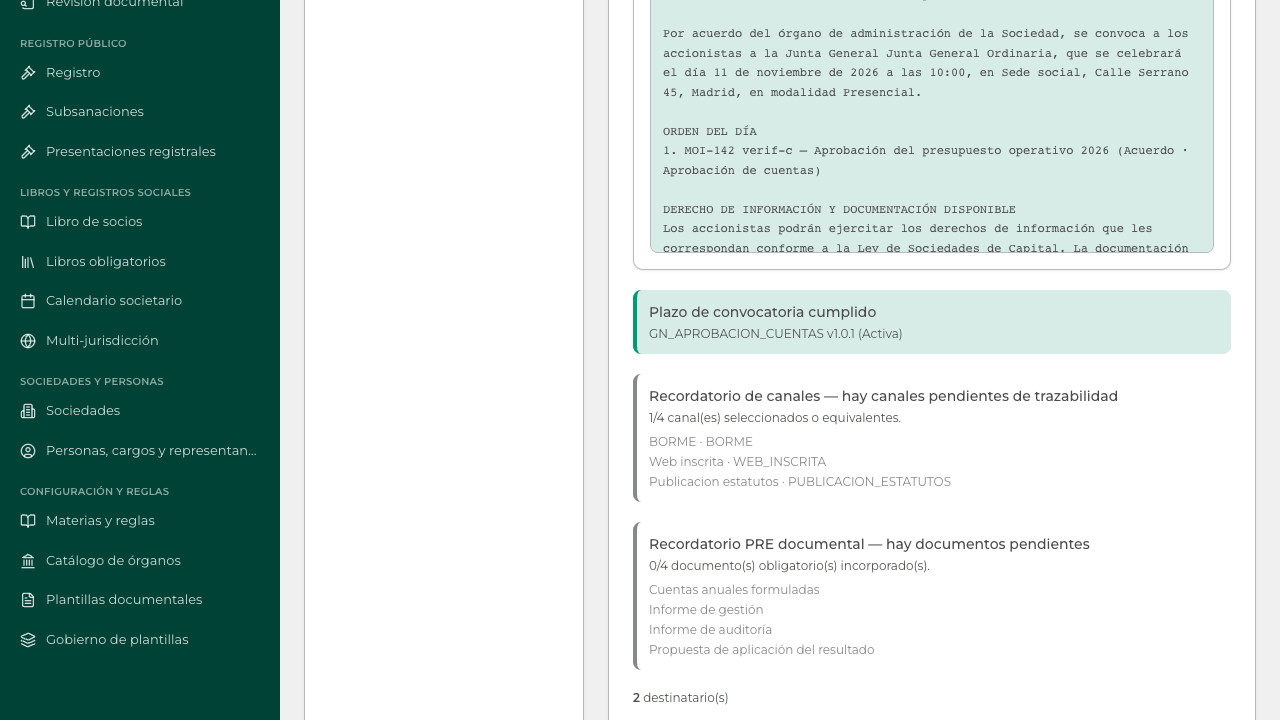
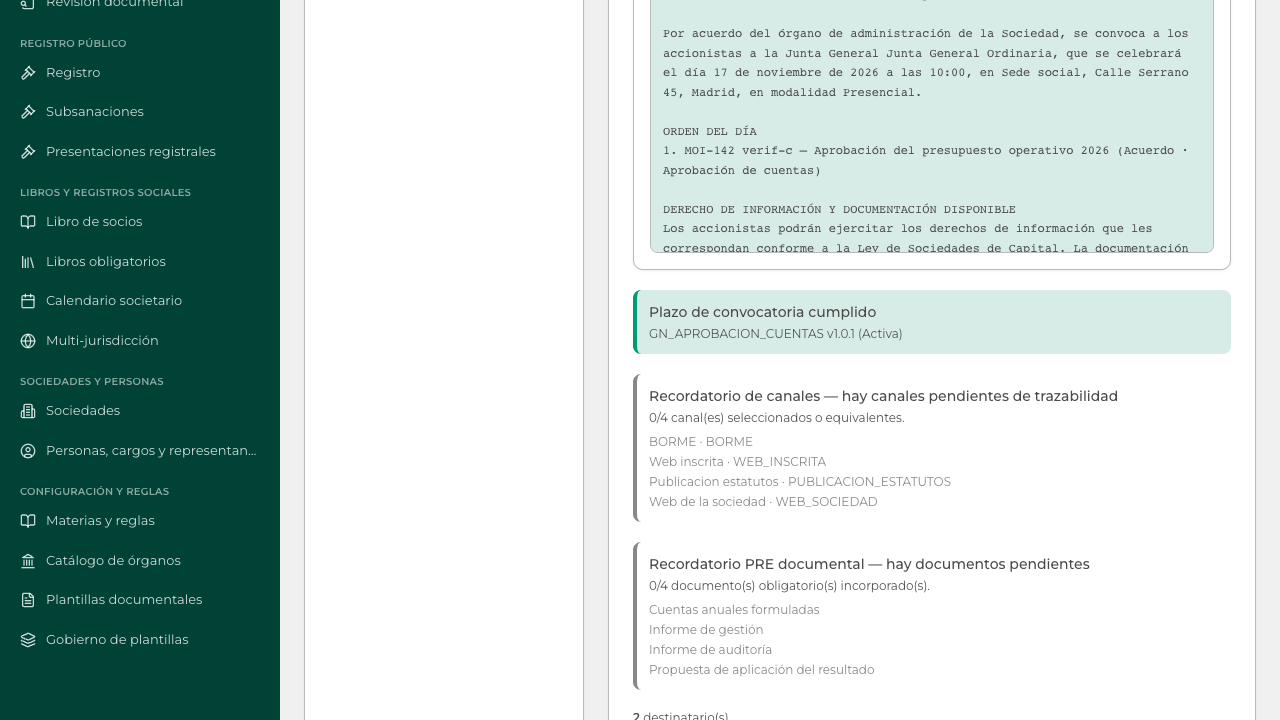
fix(secretaria): permitir emitir convocatoria de Junta, no solo Consejo (MOI-142)
El servidor ya tenía fn_emit_convocatoria_junta (migración
20260926114200, aplicada en Cloud), pero el cliente solo llamaba a
fn_emit_convocatoria (Consejo) y bloqueaba la emisión con un gate
`organoTipo !== "CONSEJO"`. useCreateConvocatoria ahora bifurca por
body_type (JUNTA -> RPC hermana; cualquier otro valor sigue en la RPC
de Consejo, sin cambio de comportamiento) y el stepper deriva el
convocante de una Junta del CDA/administrador único de la entidad
(art. 166 LSC), no del body_id de la propia Junta.

De paso, verificando el documento final post-emisión (convocation-
artifact-register), se encontró que el Edge Function exigía
literalmente recipientSelection.source === 'condiciones_persona' y
rechazaba con 409 el manifiesto de una Junta, cuyo trigger de servidor
ya escribe 'capital_holdings'. Se amplía a aceptar ambas fuentes; el
camino de Consejo quda exactamente igual.

Verificado por pantalla contra Cloud (grupo nuevo, tenant …0003):
Junta de Corporación Nueva, S.A. EMITIDA dos veces (una por cada
ejecución del spec), cada una con sus 2 socios como destinatarios
(capital_holdings), y el DOCX final generado y archivado tras el fix
del Edge Function. Garrigues sigue con su única convocatoria en
BORRADOR; ARGA y Garrigues sin cambio en recuentos de convocatorias/
meetings.

Los specs 70-verif-moi142-*, 71-verif-moi148-* y 71-recorrido-55-*
escriben en el grupo nuevo: se activan solo con
E2E_ESCRIBE_GRUPO_NUEVO=1, para no correr en una pasada general de e2e.

Changed region(s): [[0.5, 0.7333, 0.8438, 1.0], [0.5312, 0.55, 0.6875, 0.6111], [0.5, 0.6722, 0.6875, 0.7028]]

diff --git a/e2e/70-verif-moi142-junta-convocatoria-nuevo.spec.ts b/e2e/70-verif-moi142-junta-convocatoria-nuevo.spec.ts
@@ -30,6 +30,14 @@ test.describe.configure({ timeout: 180_000 });
 
 test.use({ storageState: { cookies: [], origins: [] } });
 
+// Este spec ESCRIBE en el grupo nuevo (emite una convocatoria real, para
+// siempre en producción). No debe correr en una pasada general de e2e:
+// solo se activa a propósito con E2E_ESCRIBE_GRUPO_NUEVO=1.
+test.skip(
+  process.env.E2E_ESCRIBE_GRUPO_NUEVO !== '1',
+  'Escribe en el grupo nuevo (…0003); activar explícitamente con E2E_ESCRIBE_GRUPO_NUEVO=1',
+);
+
 test('MOI-142 · Junta grupo nuevo: convocar y emitir hasta el final por pantalla', async ({ page }) => {
   const crossTenantWrites: string[] = [];
   const domainWrites4xx: string[] = [];
@@ -87,7 +95,11 @@ test('MOI-142 · Junta grupo nuevo: convocar y emitir hasta el final por pantall
 
   // ── PASO 2: Fecha y plazo legal (fecha futura, +45 días: SA exige 30) ──
   await expect(page.getByRole('heading', { name: /Paso 2\. Fecha y plazo legal/i })).toBeVisible({ timeout: 10_000 });
-  const futureDate = new Date(Date.now() + 45 * 24 * 60 * 60 * 1000).toISOString().slice(0, 10);
+  // +45..54 días (jitter por minuto actual): SA exige 30, deja margen de
+  // sobra y evita colisionar con una convocatoria emitida en una corrida
+  // anterior el mismo día natural (mismo body_id + fecha_1 => duplicado).
+  const dayOffset = 45 + (new Date().getMinutes() % 10);
+  const futureDate = new Date(Date.now() + dayOffset * 24 * 60 * 60 * 1000).toISOString().slice(0, 10);
   await page.locator('input[type="date"]').first().fill(futureDate);
   await page.locator('input[type="time"]').first().fill('10:00');
   const lugarInput = page.locator('input[type="text"]').first();
@@ -131,10 +143,16 @@ test('MOI-142 · Junta grupo nuevo: convocar y emitir hasta el final por pantall
   await page.getByRole('button', { name: /^Siguiente$/i }).click();
 
   // ── PASO 5: Canales de publicación ────────────────────────────────
+  // El servidor (fn_convocation_manifest_enrich_recipients) exige un canal
+  // de notificación DIRECTA a destinatarios (EAD_INTERPOSITION o
+  // EMAIL_SIMPLE); en una Junta el primer checkbox del listado sin filtrar
+  // es "Web corporativa" (art. 173 LSC), que no basta por sí solo.
   await expect(page.getByRole('heading', { name: /Paso 5\./i })).toBeVisible({ timeout: 10_000 });
-  const firstChannel = page.locator('main input[type="checkbox"]').first();
-  if (await firstChannel.isVisible().catch(() => false) && !(await firstChannel.isChecked())) {
-    await firstChannel.check();
+  const emailChannel = page.locator('main label', { hasText: /Email simple/i }).first();
+  await expect(emailChannel).toBeVisible({ timeout: 10_000 });
+  const emailChannelCheckbox = emailChannel.locator('input[type="checkbox"]');
+  if (!(await emailChannelCheckbox.isChecked())) {
+    await emailChannel.click();
   }
   await expect(page.getByRole('button', { name: /^Siguiente$/i })).toBeEnabled({ timeout: 15_000 });
   await page.getByRole('button', { name: /^Siguiente$/i }).click();
@@ -222,6 +240,33 @@ test('MOI-142 · Junta grupo nuevo: convocar y emitir hasta el final por pantall
   }
   console.log('[MOI-142 verif-c] Llamadas RPC fn_emit_convocatoria observadas:', rpcCalls.length);
   for (const c of rpcCalls) console.log('  ' + c);
+
+  // ── PASO 9 (post-emisión): el documento final se genera en servidor
+  // (convocation-artifact-register), vía el botón "Borrador DEMO revisado
+  // DOCX" de la ficha — genérico por organoTipo, sin rama específica de
+  // Consejo. Solo se intenta si la emisión tuvo éxito.
+  if (successVisible) {
+    await page.getByRole('button', { name: /^Abrir convocatoria$/i }).click();
+    await page.waitForURL(/\/secretaria\/convocatorias\/[0-9a-f-]{36}/, { timeout: 15_000 });
+    const docxBtn = page.getByRole('button', { name: /Borrador DEMO/i }).first();
+    await expect(docxBtn).toBeVisible({ timeout: 15_000 });
+    await docxBtn.click();
+    const docxSuccess = page.getByText(/Documento Word generado/i).first();
+    const docxError = page.getByText(/No se pudo generar el documento|Faltan variables obligatorias/i).first();
+    await Promise.race([
+      docxSuccess.waitFor({ state: 'visible', timeout: 30_000 }).catch(() => null),
+      docxError.waitFor({ state: 'visible', timeout: 30_000 }).catch(() => null),
+    ]);
+    await page.screenshot({ path: 'docs/superpowers/reviews/2026-09-27-verificacion-pantalla/verif-c/moi142-paso9-docx-resultado.png' });
+    if (await docxSuccess.isVisible().catch(() => false)) {
+      console.log('[MOI-142 verif-c] Documento final (DOCX) generado y archivado en servidor para la Junta.');
+    } else if (await docxError.isVisible().catch(() => false)) {
+      const docxErrorText = await page.locator('[data-sonner-toast], [role="status"], [role="alert"]').allTextContents();
+      console.log('[MOI-142 verif-c] HALLAZGO — la generación del documento final falla para Junta:', JSON.stringify(docxErrorText));
+    } else {
+      console.log('[MOI-142 verif-c] Generación de documento: ni éxito ni error detectados tras 30s — ver captura.');
+    }
+  }
 
   // Guard: nunca escrituras cross-tenant hacia ARGA/Garrigues desde esta sesión.
   expect(crossTenantWrites, 'no cross-tenant domain writes to ARGA/Garrigues').toEqual([]);

diff --git a/src/pages/secretaria/ConvocatoriasStepper.tsx b/src/pages/secretaria/ConvocatoriasStepper.tsx
@@ -43,7 +43,7 @@ import {
 } from "@/hooks/useConvocatorias";
 import { secretariaErrorMessage } from "@/lib/secretaria/supabase-error-message";
 import { useCapitalHoldings } from "@/hooks/useCapitalHoldings";
-import { usePresidenteVigente } from "@/hooks/useAuthorityEvidence";
+import { usePresidenteVigente, useAuthorityEvidence } from "@/hooks/useAuthorityEvidence";
 import { useShareholderRepresentationCandidates } from "@/hooks/useDelegations";
 import { usePlantillasProtegidas } from "@/hooks/usePlantillasProtegidas";
 import type { PlantillaProtegidaRow } from "@/hooks/usePlantillasProtegidas";
@@ -622,6 +622,19 @@ export default function ConvocatoriasStepper() {
     selectedEntityId ?? undefined,
     selectedBodyId,
   );
+  // MOI-142: la Junta no tiene Presidente propio — art. 166 LSC la convoca
+  // el órgano de administración (PRESIDENTE o ADMIN_UNICO del CDA de la
+  // misma entidad, nunca el body_id de la propia Junta). Reutiliza el
+  // listado de autoridad vigente de la entidad en vez de una query nueva.
+  const { data: entityAuthorityEvidence = [] } = useAuthorityEvidence(selectedEntityId ?? undefined);
+  const juntaAdminBody = bodies.find((b) => (b.body_type ?? "").toUpperCase() === "CDA") ?? null;
+  const juntaConvocanteAuthority = juntaAdminBody
+    ? entityAuthorityEvidence.find(
+        (ev) =>
+          ev.body_id === juntaAdminBody.id &&
+          (ev.cargo === "PRESIDENTE" || ev.cargo === "ADMIN_UNICO"),
+      ) ?? null
+    : null;
   const lastResolvedOrganoTipoRef = useRef<TipoOrgano>("JUNTA_GENERAL");
   const resolvedOrganoTipo = selectedBody ? resolveOrganoTipo(selectedBody) : null;
   if (resolvedOrganoTipo) lastResolvedOrganoTipoRef.current = resolvedOrganoTipo;
@@ -2084,7 +2097,11 @@ export default function ConvocatoriasStepper() {
   );
   const borradorCapa3HasMissing = Object.keys(borradorCapa3MissingRequired).length > 0;
   const convocationAuthorityReady =
-    organoTipo !== "CONSEJO" || convocanteAuthority?.cargo === "PRESIDENTE";
+    organoTipo === "CONSEJO"
+      ? convocanteAuthority?.cargo === "PRESIDENTE"
+      : organoTipo === "JUNTA_GENERAL"
+        ? Boolean(juntaConvocanteAuthority)
+        : true;
   const representationAgendaReady = agendaItems.every((item) => {
     if (item.materia !== "DESIGNACION_REPRESENTANTE_SOCIO_UNICO_FILIAL") return true;
     const target = entities.find((entity) => entity.id === item.target_entity_id) ?? null;
@@ -2420,12 +2437,12 @@ export default function ConvocatoriasStepper() {
       return;
     }
     if (
-      organoTipo !== "CONSEJO" ||
+      (organoTipo !== "CONSEJO" && organoTipo !== "JUNTA_GENERAL") ||
       jurisdiction.toUpperCase() !== "ES" ||
       selectedEntity?.entity_status !== "Active"
     ) {
       toast.error(
-        "Este registro gobernado solo está habilitado para Consejos de sociedades españolas activas en el entorno DEMO.",
+        "Este registro gobernado solo está habilitado para Consejos y Juntas de sociedades españolas activas en el entorno DEMO.",
       );
       return;
     }
@@ -2442,6 +2459,12 @@ export default function ConvocatoriasStepper() {
     if (organoTipo === "CONSEJO" && convocanteAuthority?.cargo !== "PRESIDENTE") {
       toast.error(
         "No existe evidencia vigente del cargo de Presidente para este Consejo. Esa evidencia solo acredita el cargo y no una actuación personal; el registro DEMO queda bloqueado.",
+      );
+      return;
+    }
+    if (organoTipo === "JUNTA_GENERAL" && !juntaConvocanteAuthority) {
+      toast.error(
+        "No existe evidencia vigente de Presidente o Administrador único en el órgano de administración de esta sociedad (art. 166 LSC). Esa evidencia solo acredita el cargo y no una actuación personal; el registro DEMO queda bloqueado.",
       );
       return;
     }
@@ -2474,6 +2497,7 @@ export default function ConvocatoriasStepper() {
       const attachmentIntents = await buildSupportingAttachmentIntents(adjuntos);
       const created = await createConvocatoria.mutateAsync({
         body_id: selectedBodyId,
+        body_type: selectedBody?.body_type ?? null,
         tipo_convocatoria: tipoConvocatoria,
         fecha_1: meetingIso,
         fecha_2: fecha2Iso,

diff --git a/src/test/secretaria/convocation-junta-emit-branch.test.ts b/src/test/secretaria/convocation-junta-emit-branch.test.ts
@@ -1,0 +1,82 @@
+import { readFileSync } from "node:fs";
+import { resolve } from "node:path";
+import { describe, expect, it } from "vitest";
+
+/**
+ * MOI-142 — la Junta no tenía forma de emitirse: la única RPC que llamaba
+ * el cliente (`fn_emit_convocatoria`) rechaza cualquier body_type distinto
+ * de 'CDA'. El servidor ya tiene la RPC hermana `fn_emit_convocatoria_junta`
+ * (migración 20260926114200) para JUNTA; estos tests fijan que el cliente
+ * bifurca por `body_type` sin tocar el camino de Consejo, que debe seguir
+ * llamando exactamente igual que antes.
+ */
+const hook = readFileSync(
+  resolve(process.cwd(), "src/hooks/useConvocatorias.ts"),
+  "utf8",
+);
+const stepper = readFileSync(
+  resolve(process.cwd(), "src/pages/secretaria/ConvocatoriasStepper.tsx"),
+  "utf8",
+);
+const artifactRegister = readFileSync(
+  resolve(process.cwd(), "supabase/functions/convocation-artifact-register/index.ts"),
+  "utf8",
+);
+
+describe("convocatoria — bifurcación de emisión Junta/Consejo (MOI-142)", () => {
+  it("useCreateConvocatoria enruta por body_type sin dejar de llamar al Consejo igual que antes", () => {
+    expect(hook).toContain("body_type?: string | null");
+    // El Consejo sigue llamando literalmente a la misma RPC de siempre.
+    expect(hook).toContain('.rpc("fn_emit_convocatoria", { p_payload: payload })');
+    // La Junta llama a la RPC hermana, nunca a la de Consejo.
+    expect(hook).toContain('.rpc("fn_emit_convocatoria_junta", { p_payload: payload })');
+    expect(hook).toContain('(input.body_type ?? "").toUpperCase() === "JUNTA"');
+  });
+
+  it("no reconstruye el payload por rama: un único objeto payload para ambas RPC", () => {
+    const mutation = hook.match(/mutationFn:[\s\S]*?onSuccess:/)?.[0] ?? "";
+    expect(mutation).toContain("const payload =");
+    expect((mutation.match(/const payload =/g) ?? []).length).toBe(1);
+  });
+
+  it("el stepper deja de bloquear la emisión de Junta en el gate de Consejo", () => {
+    expect(stepper).toContain(
+      'organoTipo !== "CONSEJO" && organoTipo !== "JUNTA_GENERAL"',
+    );
+    // El Consejo conserva exactamente su mensaje y su validación de Presidente.
+    expect(stepper).toContain('convocanteAuthority?.cargo === "PRESIDENTE"');
+    expect(stepper).toContain('convocanteAuthority?.cargo !== "PRESIDENTE"');
+  });
+
+  it("deriva el convocante de Junta del CDA de la entidad (art. 166 LSC), no del body_id de la propia Junta", () => {
+    expect(stepper).toContain("juntaAdminBody");
+    expect(stepper).toContain('(b.body_type ?? "").toUpperCase() === "CDA"');
+    expect(stepper).toContain("juntaConvocanteAuthority");
+    expect(stepper).toContain(
+      'ev.cargo === "PRESIDENTE" || ev.cargo === "ADMIN_UNICO"',
+    );
+    // Bloquea la emisión de Junta si no hay Presidente/Administrador único vigente.
+    expect(stepper).toContain(
+      'organoTipo === "JUNTA_GENERAL" && !juntaConvocanteAuthority',
+    );
+  });
+
+  it("propaga body_type al crear la convocatoria, para que el hook sepa qué RPC llamar", () => {
+    expect(stepper).toContain("body_type: selectedBody?.body_type ?? null");
+  });
+
+  it("el renderer del documento final acepta la fuente de destinatarios de Junta (capital_holdings), no solo la de Consejo", () => {
+    // Medido en vivo (grupo nuevo, 2026-09-27): sin este fix, generar el
+    // DOCX de una Junta EMITIDA devolvía 409 "Manifest recipient snapshot is
+    // incomplete or inconsistent" — el Edge Function seguía exigiendo
+    // literalmente recipientSelection.source === 'condiciones_persona'
+    // aunque el trigger de servidor (migración 20260926114200) ya escribe
+    // 'capital_holdings' para una Junta.
+    expect(artifactRegister).toContain(
+      "!['condiciones_persona', 'capital_holdings'].includes(String(recipientSelection.source))",
+    );
+    expect(artifactRegister).not.toContain(
+      "recipientSelection.source !== 'condiciones_persona'",
+    );
+  });
+});

diff --git a/src/hooks/useConvocatorias.ts b/src/hooks/useConvocatorias.ts
@@ -308,6 +308,14 @@ export interface AgendaItem {
 
 export interface CreateConvocatoriaInput {
   body_id: string;
+  /**
+   * body_type del órgano convocante (MOI-142). 'JUNTA' enruta a la RPC
+   * hermana `fn_emit_convocatoria_junta` (art. 166 LSC: convoca el órgano
+   * de administración, no un Presidente propio de la Junta); cualquier
+   * otro valor (incl. ausente, por compatibilidad) sigue en
+   * `fn_emit_convocatoria` (Consejo), sin cambio de comportamiento.
+   */
+  body_type?: string | null;
   tipo_convocatoria: string;
   fecha_1: string;
   fecha_2?: string | null;
@@ -329,26 +337,29 @@ export function useCreateConvocatoria() {
   const queryClient = useQueryClient();
   return useMutation({
     mutationFn: async (input: CreateConvocatoriaInput): Promise<ConvocatoriaRow> => {
-      const { data, error } = await supabase
-        .rpc("fn_emit_convocatoria", {
-          p_payload: {
-            body_id: input.body_id,
-            tipo_convocatoria: input.tipo_convocatoria,
-            fecha_1: input.fecha_1,
-            fecha_2: input.fecha_2 ?? null,
-            modalidad: input.modalidad,
-            lugar: input.lugar ?? null,
-            junta_universal: input.junta_universal,
-            is_second_call: input.is_second_call,
-            publication_channels: input.publication_channels,
-            agenda_items: input.agenda_items,
-            statutory_basis: input.statutory_basis ?? null,
-            convocatoria_text: input.convocatoria_text ?? null,
-            rule_trace: input.rule_trace ?? null,
-            reminders_trace: input.reminders_trace ?? null,
-            accepted_warnings: input.accepted_warnings ?? [],
-          } as unknown as Json,
-        });
+      const payload = {
+        body_id: input.body_id,
+        tipo_convocatoria: input.tipo_convocatoria,
+        fecha_1: input.fecha_1,
+        fecha_2: input.fecha_2 ?? null,
+        modalidad: input.modalidad,
+        lugar: input.lugar ?? null,
+        junta_universal: input.junta_universal,
+        is_second_call: input.is_second_call,
+        publication_channels: input.publication_channels,
+        agenda_items: input.agenda_items,
+        statutory_basis: input.statutory_basis ?? null,
+        convocatoria_text: input.convocatoria_text ?? null,
+        rule_trace: input.rule_trace ?? null,
+        reminders_trace: input.reminders_trace ?? null,
+        accepted_warnings: input.accepted_warnings ?? [],
+      } as unknown as Json;
+      // MOI-142: la Junta no tiene RPC de emisión propia — art. 166 LSC la
+      // convoca el órgano de administración (fn_emit_convocatoria_junta,
+      // migración 20260926114200). El Consejo sigue exactamente igual.
+      const { data, error } = (input.body_type ?? "").toUpperCase() === "JUNTA"
+        ? await supabase.rpc("fn_emit_convocatoria_junta", { p_payload: payload })
+        : await supabase.rpc("fn_emit_convocatoria", { p_payload: payload });
       if (error) throw error;
       const result = data as {
         convocatoria?: ConvocatoriaRow;

diff --git a/supabase/functions/convocation-artifact-register/index.ts b/supabase/functions/convocation-artifact-register/index.ts
@@ -311,10 +311,15 @@ serve(async (req) => {
   const recipientSelection = root.recipient_selection && typeof root.recipient_selection === 'object'
     ? root.recipient_selection as Record<string, unknown>
     : {};
+  // MOI-142: una Junta deriva destinatarios de `capital_holdings` (socios
+  // con voto), no de `condiciones_persona` (censo político por-órgano de un
+  // Consejo) — misma fuente que fn_convocation_manifest_enrich_recipients
+  // (migración 20260926114200) ya escribe en el manifiesto. El Consejo
+  // sigue exigiendo exactamente la misma fuente que antes.
   if (
     recipients.length === 0
     || recipientSelection.schema_version !== 'secretaria.convocation-recipient-selection.v1'
-    || recipientSelection.source !== 'condiciones_persona'
+    || !['condiciones_persona', 'capital_holdings'].includes(String(recipientSelection.source))
     || recipientSelection.selected_count !== recipients.length
     || typeof recipientSelection.effective_date !== 'string'
     || !Array.isArray(recipientSelection.excluded_person_ids)

diff --git a/e2e/71-recorrido-55-aims-grupo-nuevo.spec.ts b/e2e/71-recorrido-55-aims-grupo-nuevo.spec.ts
@@ -41,6 +41,14 @@ test.describe('MOI-55 — bloque 5 AIMS en Grupo Nuevo', () => {
   test.use({ storageState: { cookies: [], origins: [] } });
   test.setTimeout(240_000);
 
+  // Este spec ESCRIBE en el grupo nuevo (alta de sistema IA, evaluación
+  // congelada, incidente). No debe correr en una pasada general de e2e:
+  // solo se activa a propósito con E2E_ESCRIBE_GRUPO_NUEVO=1.
+  test.skip(
+    process.env.E2E_ESCRIBE_GRUPO_NUEVO !== '1',
+    'Escribe en el grupo nuevo (…0003); activar explícitamente con E2E_ESCRIBE_GRUPO_NUEVO=1',
+  );
+
   test('alta guiada, congelar/revisar a cuatro ojos e incidente', async ({ page, browser }) => {
     const filtrosSistemas: Array<string | null> = [];
     page.on('request', (req) => {

diff --git a/e2e/71-verif-moi148-editar-estructura-grupo.spec.ts b/e2e/71-verif-moi148-editar-estructura-grupo.spec.ts
@@ -46,6 +46,14 @@ async function setPorcentaje(page: import('@playwright/test').Page, value: strin
   return { errorVisible };
 }
 
+// Este spec ESCRIBE en el grupo nuevo (cambia y revierte un porcentaje real
+// de participación). No debe correr en una pasada general de e2e: solo se
+// activa a propósito con E2E_ESCRIBE_GRUPO_NUEVO=1.
+test.skip(
+  process.env.E2E_ESCRIBE_GRUPO_NUEVO !== '1',
+  'Escribe en el grupo nuevo (…0003); activar explícitamente con E2E_ESCRIBE_GRUPO_NUEVO=1',
+);
+
 test('MOI-148 · Grupo nuevo: cambiar y revertir el porcentaje de la filial 2.3 por pantalla', async ({ page }) => {
   const crossTenantWrites: string[] = [];
   page.on('request', (req) => {
